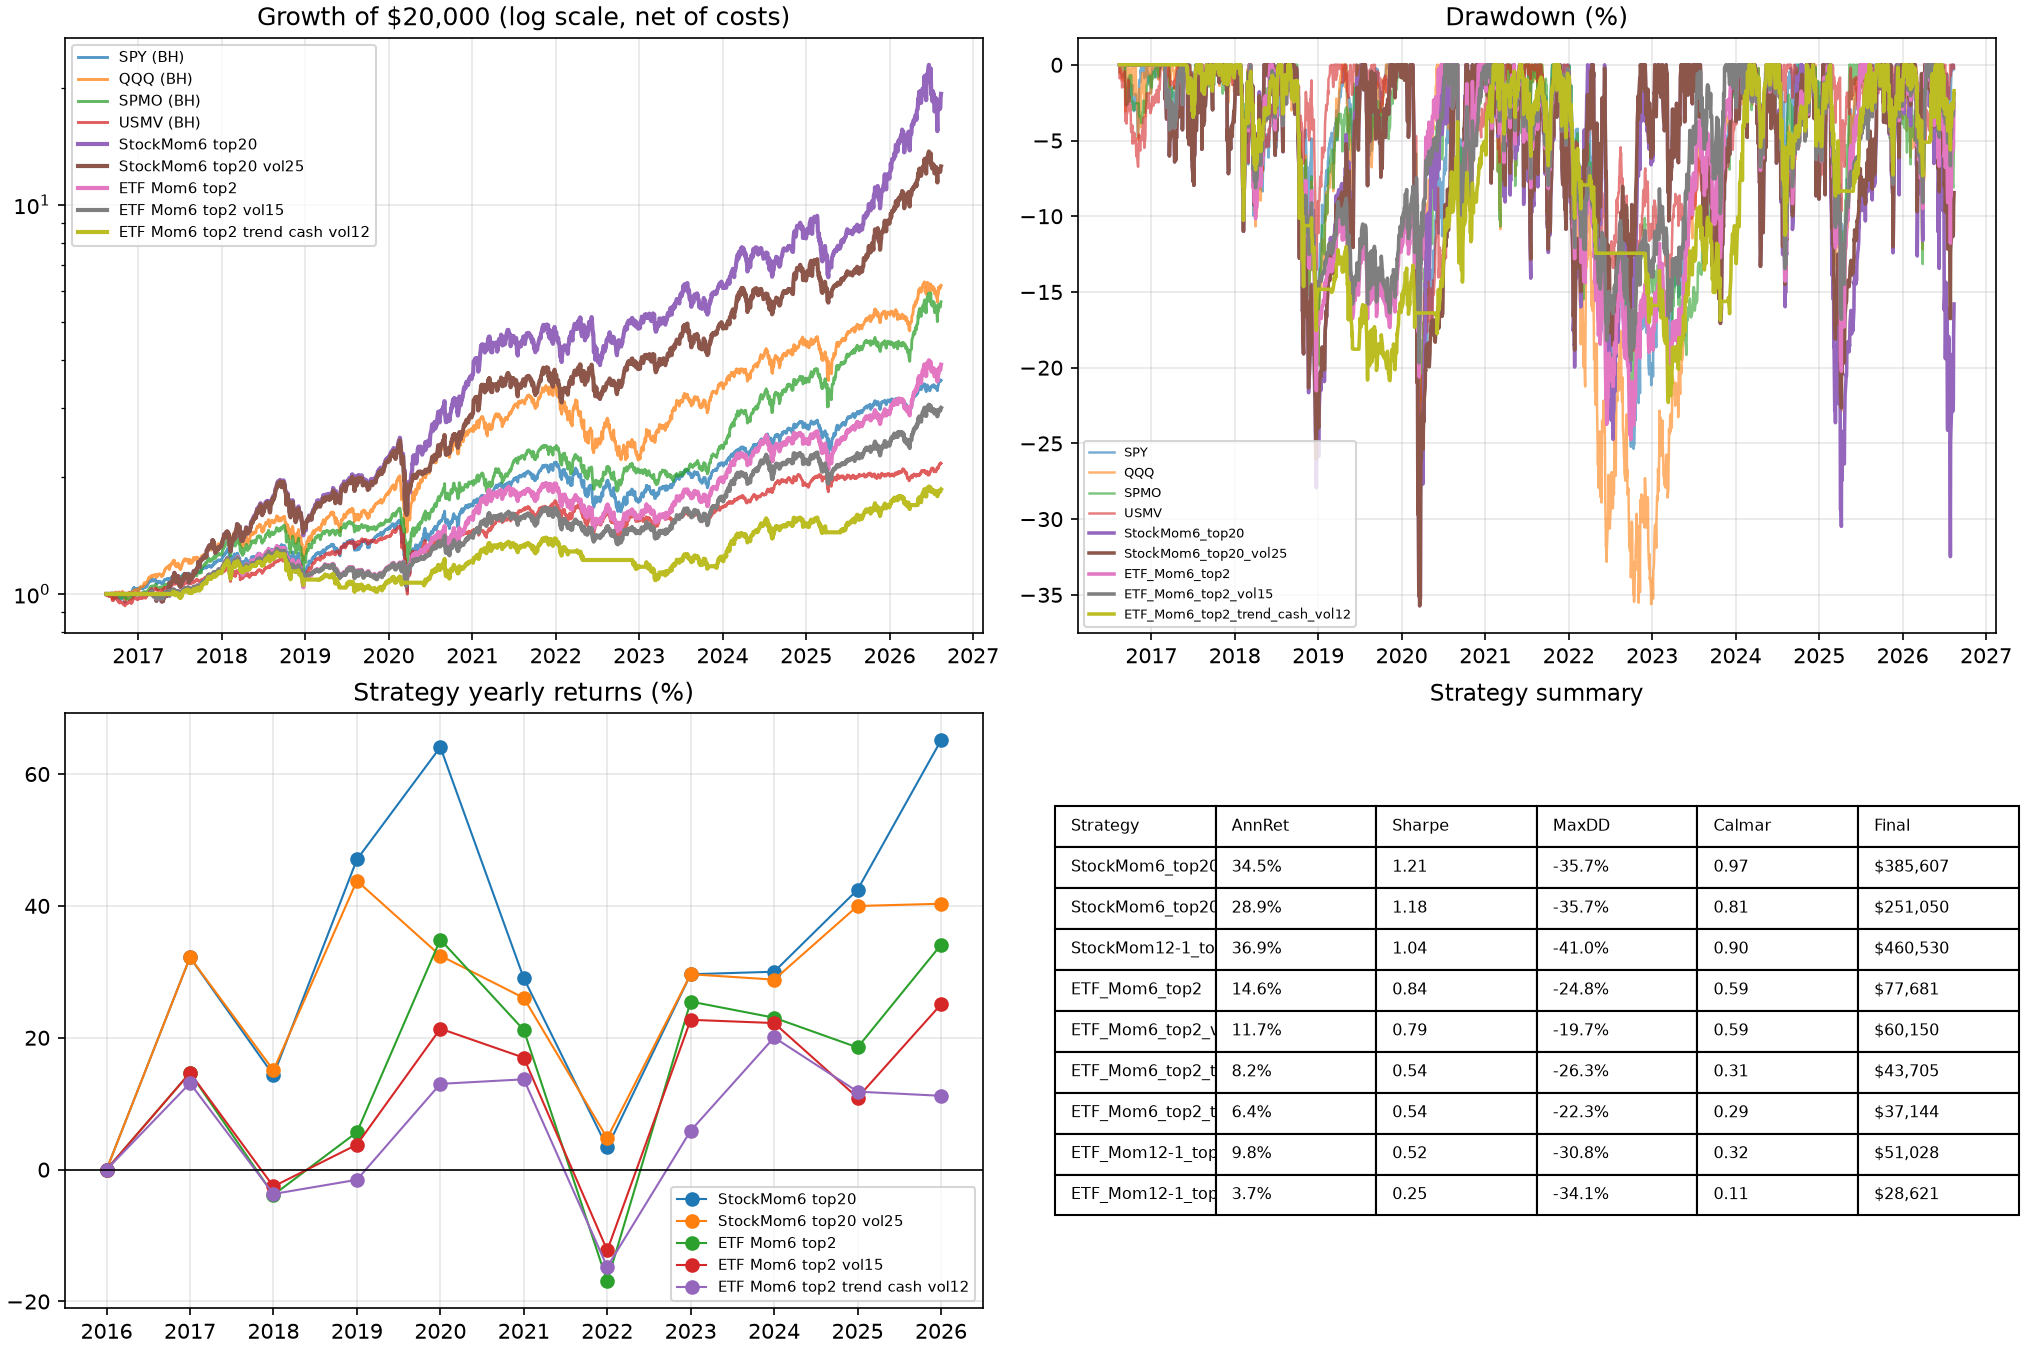
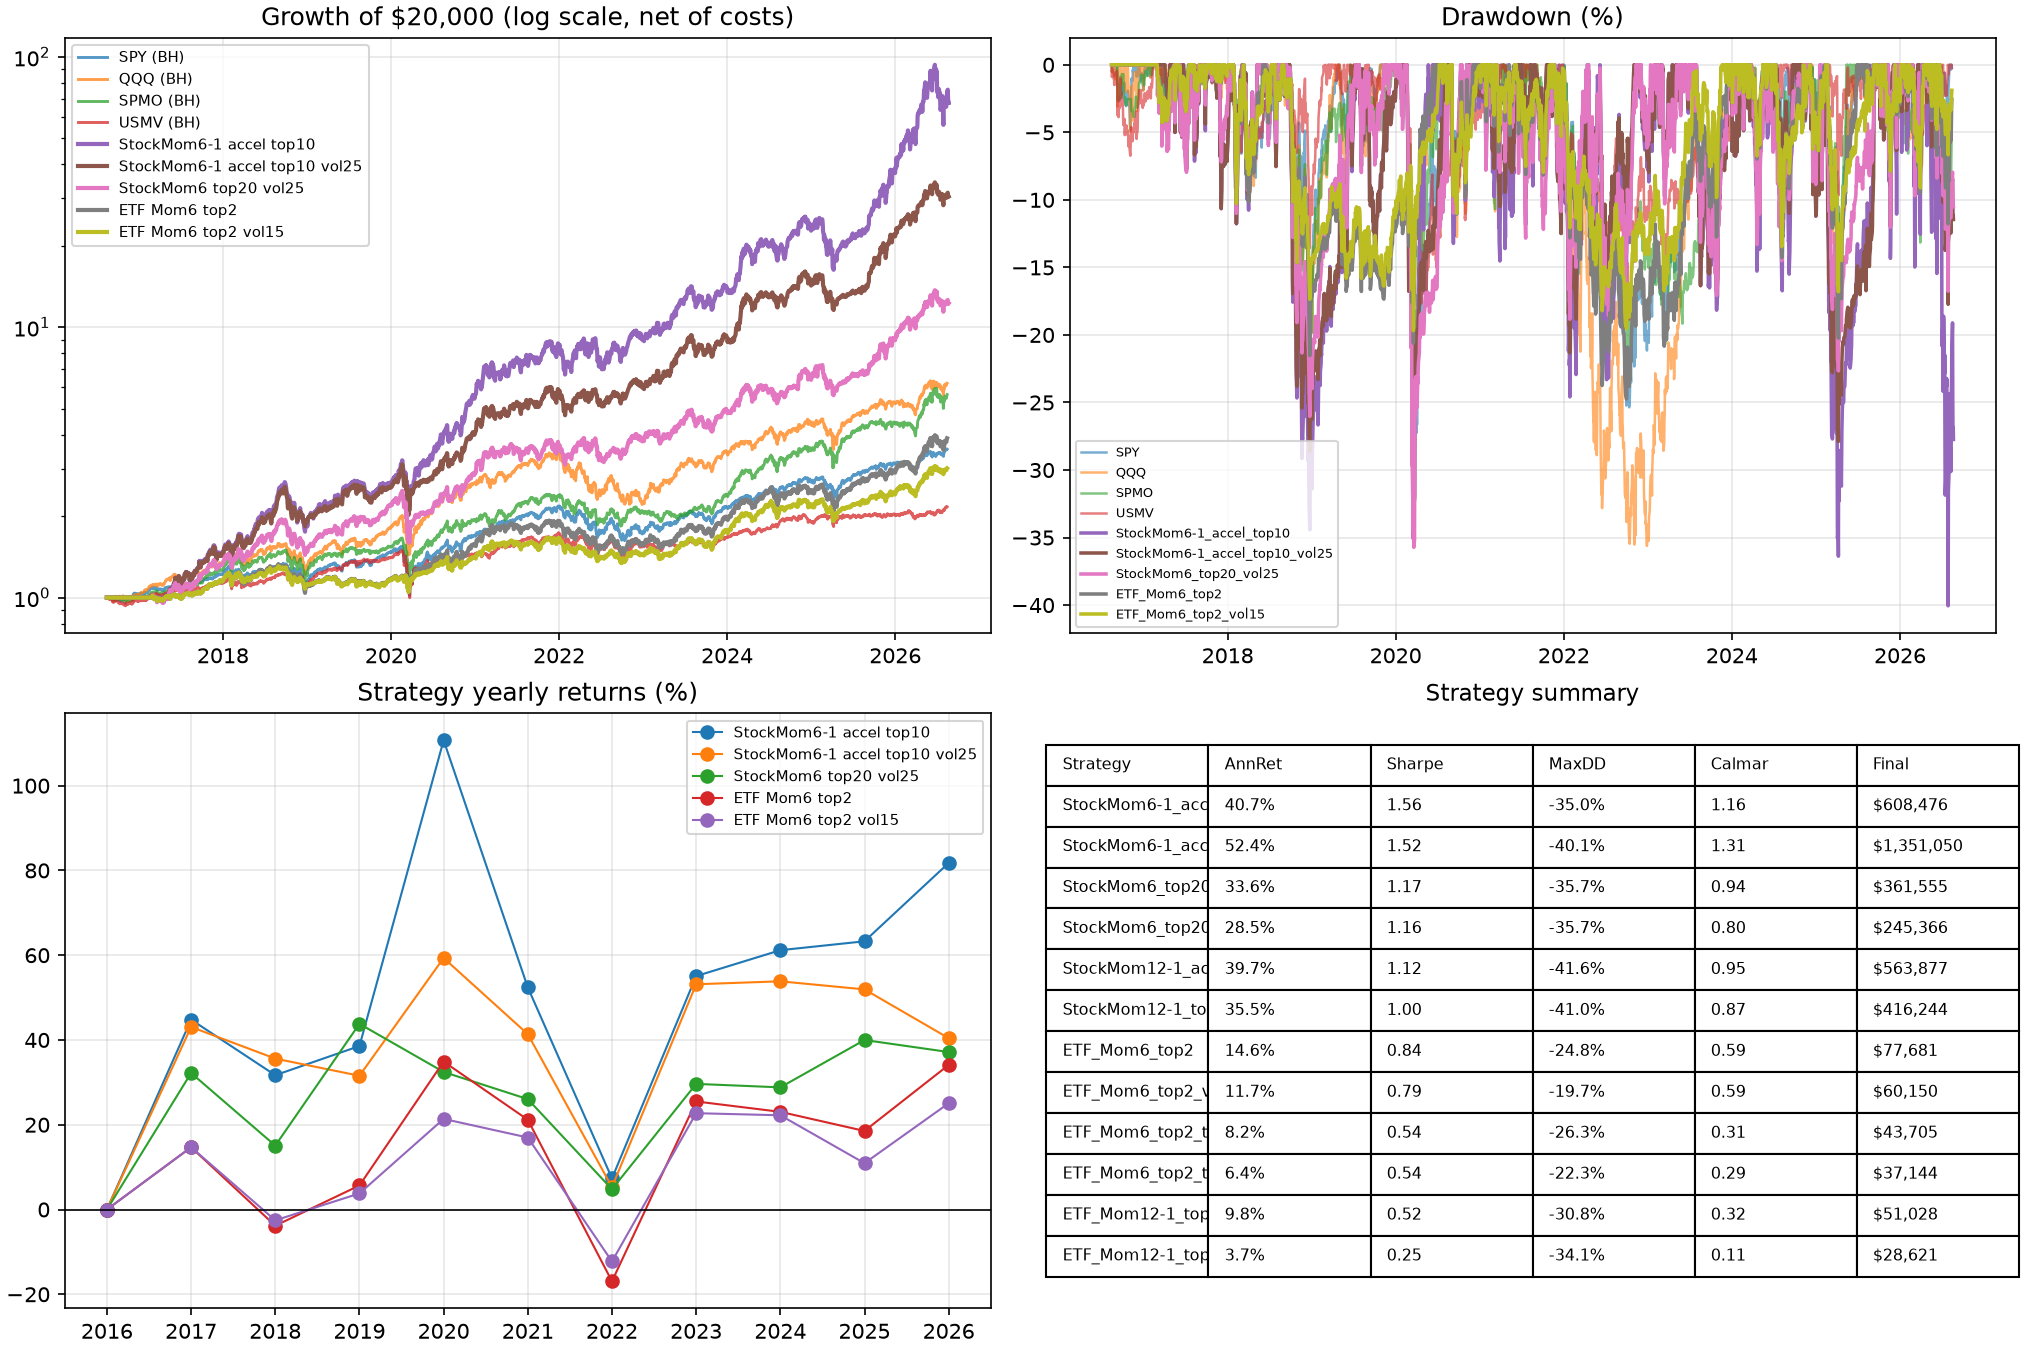
feat: 增加动量+近1月加速因子，月频/周频回测对比及影子策略

diff --git a/weekly_strategy.py b/weekly_strategy.py
@@ -22,6 +22,12 @@ def mom_score(d):  # 日线近似 6m-skip1
     a = px.iloc[d-21]; b = px.iloc[d-147]
     return (a/b - 1.0).replace([np.inf, -np.inf], np.nan)
 
+def acc_score(d):  # 6m-skip1 动量 + 近1月加速（各占50%）
+    m = mom_score(d)
+    if m is None: return None
+    a = px.iloc[d] / px.iloc[d-21] - 1.0
+    return (0.5*m + 0.5*a).replace([np.inf, -np.inf], np.nan)
+
 def weekly_last_days():
     s = pd.Series(idx, index=idx.to_period("W"))
     last = s.groupby(level=0).last()
@@ -48,13 +54,34 @@ print(f"周频动量策略 top{TOP}  信号={pd.Timestamp(sig_date).date()}  数
 print(hold[["rank","ticker","momentum","price","alloc_usd","shares"]].round(4).to_string(index=False))
 print("saved:", hold_csv)
 
+# ---------- 当前周频持仓（动量+近1月加速） ----------
+sig_a = max(wk_days)
+sca = acc_score(sig_a)
+ta_a = list(sca.sort_values(ascending=False).index[:TOP])
+rows_a = []
+for rk_a, t_a in enumerate(ta_a, 1):
+    price_a = float(px.iloc[-1][t_a]); alloc_a = CAPITAL / TOP
+    mom_v = float(mom_score(sig_a)[t_a])
+    acc_v = float(px.iloc[sig_a][t_a] / px.iloc[sig_a-21][t_a] - 1.0)
+    rows_a.append(dict(rank=rk_a, ticker=t_a, signal_date=str(pd.Timestamp(idx[sig_a]).date()),
+                       momentum=round(mom_v,4), accel=round(acc_v,4),
+                       score=round(mom_v*0.5 + acc_v*0.5,4), weight=1.0/TOP,
+                       price=price_a, alloc_usd=alloc_a, shares=alloc_a/price_a))
+hold_a = pd.DataFrame(rows_a)
+hold_a_csv = OUT / "current_holdings_6m_skip1_accel_top10_weekly.csv"
+hold_a.to_csv(hold_a_csv, index=False, encoding="utf-8-sig")
+print("="*80)
+print(f"周频动量+加速策略 top{TOP}  信号={pd.Timestamp(idx[sig_a]).date()}  数据截止={idx[-1].date()}")
+print(hold_a[["rank","ticker","momentum","accel","score","price","alloc_usd","shares"]].round(4).to_string(index=False))
+print("saved:", hold_a_csv)
+
 # ---------- 周频回测指标 ----------
-def backtest_weekly(top=TOP, cost_bps=10, vol_target=None):
+def backtest_weekly(score_func=mom_score, top=TOP, cost_bps=10, vol_target=None):
     rb = weekly_last_days()
     rb = [d for d in rb if d > 147 and d+1 < len(idx)]
     prev_w = pd.Series(0.0, index=cols); ret = pd.Series(0.0, index=idx); cost_line = pd.Series(0.0, index=idx)
     for k, rdi in enumerate(rb):
-        sc = mom_score(rdi)
+        sc = score_func(rdi)
         if sc is None or sc.dropna().empty: continue
         ta2 = list(sc.sort_values(ascending=False).index[:top]); w = 1.0/len(ta2)
         new_w = pd.Series(0.0, index=cols); new_w[ta2] = w
@@ -90,12 +117,16 @@ def metrics(ret):
 
 r = backtest_weekly(); f = metrics(r)
 r25 = backtest_weekly(vol_target=0.25); f25 = metrics(r25)
-oos = idx >= pd.Timestamp("2022-01-01"); o = metrics(r[oos]); o25 = metrics(r25[oos])
+ra = backtest_weekly(acc_score); fa = metrics(ra)
+ra25 = backtest_weekly(acc_score, vol_target=0.25); fa25 = metrics(ra25)
+oos = idx >= pd.Timestamp("2022-01-01"); o = metrics(r[oos]); o25 = metrics(r25[oos]); oa = metrics(ra[oos]); oa25 = metrics(ra25[oos])
 def line(name, mm, oo):
     return dict(策略=name, full_sh=round(mm["sharpe"],3), full_ann=round(mm["ann"],4), full_mdd=round(mm["mdd"],4), full_end=round(mm["final"],0),
                 oos_sh=round(oo["sharpe"],3), oos_ann=round(oo["ann"],4), oos_mdd=round(oo["mdd"],4), oos_end=round(oo["final"],0))
 mdf = pd.DataFrame([line("周频 6m-skip1 top10 (base)", f, o),
-                    line("周频 6m-skip1 top10 + vol25（推荐）", f25, o25)])
+                    line("周频 6m-skip1 top10 + vol25", f25, o25),
+                    line("周频 6m-skip1+近1月加速 top10", fa, oa),
+                    line("周频 6m-skip1+近1月加速 top10 + vol25", fa25, oa25)])
 mcsv = OUT / "weekly_backtest_metrics.csv"
 mdf.to_csv(mcsv, index=False, encoding="utf-8-sig")
 print("\n周频回测指标:")

diff --git a/explore_flexible.py b/explore_flexible.py
@@ -1,0 +1,78 @@
+# -*- coding: utf-8 -*-
+"""探索：月频动量策略的“更灵活”变体，对比能不能提高收益/夏普
+base(等权) / rank加权 / 前5重仓 / 动量+近期加速 / 动量门槛过滤(空仓一部分)
+"""
+import os
+from pathlib import Path
+import numpy as np, pandas as pd
+
+DATA = Path(os.environ.get("STOCK_DATA_DIR") or r"F:\even-codex\us-stock-data")
+OUT = Path(__file__).resolve().parent / "backtest_output"
+DAYS=252; START=20000.0; COST=10; TOP=10
+
+px = pd.read_csv(DATA/"prices.csv", index_col=0, parse_dates=True).sort_index().apply(pd.to_numeric, errors="coerce")
+px = px.loc[:, px.count() >= 2400]
+idx=px.index; cols=list(px.columns); idpos={d:i for i,d in enumerate(idx)}; dr=px.pct_change().fillna(0.0)
+mom6 = px.shift(21).div(px.shift(147)) - 1.0   # 6m-skip1 日近似
+acc  = px.div(px.shift(21)) - 1.0                # 近1月加速
+
+def month_last_days():
+    s = pd.Series(idx, index=idx.to_period("M"))
+    last = s.groupby(level=0).last()
+    return [int(idpos[d]) for d in last.tolist() if d in idpos]
+
+def pick_weight(variant, d):
+    if variant == "accel":
+        sc = (pd.DataFrame({"a": mom6.iloc[d], "b": acc.iloc[d]}).mean(axis=1))
+    else:
+        sc = mom6.iloc[d]
+    sc = sc.sort_values(ascending=False)
+    names = sc.index[:TOP].tolist()
+    if variant == "mom20":
+        names = sc.index[sc > 0.20].tolist()[:TOP]   # 动量不够就空仓
+    if variant == "rank_w":
+        w = np.arange(len(names),0,-1.0); w = w/w.sum()
+        return {t:vv for t,vv in zip(names,w)}
+    if variant == "topheavy":
+        wd = {}
+        for i,t in enumerate(names):
+            wd[t] = 0.18 if i < 5 else 0.02
+        return wd
+    return {t: 1.0/len(names) for t in names}
+
+def run(variant):
+    rb = [d for d in month_last_days() if d>147 and d+1<len(idx)]
+    prev_w = pd.Series(0.0, index=cols); ret = pd.Series(0.0, index=idx); cost_line = pd.Series(0.0, index=idx)
+    for k,rdi in enumerate(rb):
+        wd = pick_weight(variant, rdi)
+        new_w = pd.Series(0.0, index=cols)
+        if wd:
+            new_w = pd.Series({t:vv for t,vv in wd.items() if t in cols})
+        hold_start = rdi+1; seg_end = rb[k+1] if k+1<len(rb) else len(idx)-1
+        if seg_end <= hold_start: seg_end = hold_start+1
+        to = (new_w-prev_w).abs().sum()/2.0
+        cost_line.iloc[hold_start] += to*COST/10000.0
+        li = [cols.index(c) for c in new_w.index if new_w[c]!=0]
+        if li:
+            ret.iloc[hold_start:seg_end+1] += (dr.iloc[hold_start:seg_end+1,li]*new_w.values[new_w!=0]).sum(axis=1)
+        prev_w = new_w.copy()
+    return (ret-cost_line).clip(lower=-0.5)
+
+def metrics(r):
+    nav=(1+r).cumprod()*START; ann=(nav.iloc[-1]/START)**(DAYS/len(nav))-1
+    vol=r.std(ddof=1)*np.sqrt(DAYS); sh=ann/vol if vol>0 else np.nan
+    mdd=(nav/nav.cummax()-1).min()
+    return dict(ann=ann,vol=vol,sharpe=[round(float(sh),3) if isinstance(sh,float) else sh][0],mdd=float(mdd),final=float(nav.iloc[-1]))
+
+oos = idx >= pd.Timestamp("2022-01-01")
+names = dict(base="base: 等权top10", rank_w="rank_w: 按排名线性加权", topheavy="topheavy: 前5各18%/后5各2%",
+             accel="accel: 动量+近1月加速", mom20="mom20: 动量>0.2才持仓(常空仓)")
+rows=[]
+for v,label in names.items():
+    r=run(v); f=metrics(r); o=metrics(r[oos])
+    rows.append(dict(变体=label, full_sh=f["sharpe"], full_ann=round(f["ann"],4), full_mdd=round(f["mdd"],4), full_end=round(f["final"],0),
+                     oos_sh=o["sharpe"], oos_ann=round(o["ann"],4), oos_mdd=round(o["mdd"],4), oos_end=round(o["final"],0)))
+df=pd.DataFrame(rows).sort_values("full_sh", ascending=False)
+out=OUT/"flexible_variants_scan.csv"; df.to_csv(out,index=False,encoding="utf-8-sig")
+print(df.to_string(index=False))
+print("saved:", out)

diff --git a/accel_robustness.py b/accel_robustness.py
@@ -1,0 +1,50 @@
+# -*- coding: utf-8 -*-
+"""稳健性检查：动量+近期加速 的组合参数扫描"""
+import os
+from pathlib import Path
+import numpy as np, pandas as pd
+
+DATA = Path(os.environ.get("STOCK_DATA_DIR") or r"F:\even-codex\us-stock-data")
+DAYS=252; START=20000.0; COST=10; TOP=10
+px = pd.read_csv(DATA/"prices.csv", index_col=0, parse_dates=True).sort_index().apply(pd.to_numeric, errors="coerce")
+px = px.loc[:, px.count() >= 2400]
+idx=px.index; cols=list(px.columns); idpos={d:i for i,d in enumerate(idx)}; dr=px.pct_change().fillna(0.0)
+mom6 = px.shift(21).div(px.shift(147)) - 1.0
+
+def month_last_days():
+    s = pd.Series(idx, index=idx.to_period("M"))
+    last = s.groupby(level=0).last()
+    return [int(idpos[d]) for d in last.tolist() if d in idpos]
+
+def run(acc_lb, w_mom):
+    rb=[d for d in month_last_days() if d>147 and d+1<len(idx)]
+    acc = px.div(px.shift(acc_lb)) - 1.0
+    prev_w=pd.Series(0.0,index=cols); ret=pd.Series(0.0,index=idx); cost_line=pd.Series(0.0,index=idx)
+    for k,rdi in enumerate(rb):
+        sc = (w_mom*mom6.iloc[rdi] + (1-w_mom)*acc.iloc[rdi]).sort_values(ascending=False).head(TOP)
+        nw=pd.Series({t:1.0/len(sc) for t in sc.index}, index=sc.index)
+        new_w=pd.Series(0.0,index=cols); new_w[nw.index]=nw.values
+        hs=rdi+1; se=rb[k+1] if k+1<len(rb) else len(idx)-1
+        if se<=hs: se=hs+1
+        cost_line.iloc[hs] += (new_w-prev_w).abs().sum()/2.0*COST/10000.0
+        li=[cols.index(c) for c in new_w.index if new_w[c]!=0]
+        if li:
+            ret.iloc[hs:se+1] += (dr.iloc[hs:se+1,li]*new_w.values[new_w!=0]).sum(axis=1)
+        prev_w=new_w.copy()
+    return (ret-cost_line).clip(lower=-0.5)
+
+def metrics(r):
+    nav=(1+r).cumprod()*START; ann=(nav.iloc[-1]/START)**(DAYS/len(nav))-1
+    vol=r.std(ddof=1)*np.sqrt(DAYS); sh=ann/vol if vol>0 else np.nan
+    mdd=(nav/nav.cummax()-1).min()
+    return sh, ann, mdd, nav.iloc[-1]
+
+oos=idx>=pd.Timestamp("2022-01-01")
+rows=[]
+for lb in (10,21,42):
+    for wm in (0.5,0.6,0.7,0.8,0.9):
+        r=run(lb,wm); fs,fa,fm,fe=metrics(r); os,oa,om,oe=metrics(r[oos])
+        rows.append(dict(acc_lookback=lb,w_mom=wm,full_sh=round(fs,3),full_ann=round(fa,4),full_mdd=round(fm,4),full_end=round(fe,0),oos_sh=round(os,3),oos_ann=round(oa,4),oos_mdd=round(om,4),oos_end=round(oe,0)))
+df=pd.DataFrame(rows).sort_values("full_sh",ascending=False)
+print(df.to_string(index=False))
+df.to_csv(Path(r"F:\even-codex\lianghua2\backtest_output\accel_robustness_scan.csv"), index=False, encoding="utf-8-sig")

diff --git a/backtest_momentum_v2.py b/backtest_momentum_v2.py
@@ -31,6 +31,13 @@ def momentum_score(px, period, skip):
     ml = monthly_last(px)
     return ml.shift(skip) / ml.shift(skip + period) - 1.0
 
+def momentum_accel_score(px, period, skip, accel_months=1, w_mom=0.5):
+    """复合打分 = w_mom*动量 + (1-w_mom)*近1月加速"""
+    ml = monthly_last(px)
+    m = ml.shift(skip) / ml.shift(skip + period) - 1.0
+    a = ml / ml.shift(accel_months) - 1.0
+    return w_mom * m + (1.0 - w_mom) * a
+
 def sma10_filter(px, month_last):
     ma = month_last.rolling(10, min_periods=10).mean()
     return (month_last >= ma).fillna(False)
@@ -155,11 +162,16 @@ spy_m = monthly_last(etf_px[['SPY']])['SPY']
 spy10 = sma10_filter(etf_px['SPY'], spy_m)
 stk6  = momentum_score(stock_px, 6, 0)
 stk12 = momentum_score(stock_px, 12, 1)
+stk6a  = momentum_accel_score(stock_px, 6, 1, accel_months=1, w_mom=0.5)
+stk12a = momentum_accel_score(stock_px, 12, 1, accel_months=1, w_mom=0.5)
 
 S = {}
 S['StockMom6_top20']             = run(stock_px, stk6, 20, cost_bps=10)
 S['StockMom6_top20_vol25']       = run(stock_px, stk6, 20, cost_bps=10, vol_target=0.25)
 S['StockMom12-1_top10']          = run(stock_px, stk12, 10, cost_bps=10)
+S['StockMom6-1_accel_top10']     = run(stock_px, stk6a, 10, cost_bps=10)
+S['StockMom6-1_accel_top10_vol25'] = run(stock_px, stk6a, 10, cost_bps=10, vol_target=0.25)
+S['StockMom12-1_accel_top10']    = run(stock_px, stk12a, 10, cost_bps=10)
 S['ETF_Mom6_top2']               = run(etf_px, etf6, 2, cost_bps=5)
 S['ETF_Mom6_top2_vol15']         = run(etf_px, etf6, 2, cost_bps=5, vol_target=0.15)
 S['ETF_Mom6_top2_trend_cash']    = run(etf_px, etf6, 2, market_filter=spy10, cash_asset=None, cost_bps=5)
@@ -189,7 +201,7 @@ df.to_csv(OUT_DIR / "results_table.csv", index=False, encoding="utf-8-sig")
 print(df.to_string(index=False))
 
 # ---- charts
-sel_strats = ['StockMom6_top20','StockMom6_top20_vol25','ETF_Mom6_top2','ETF_Mom6_top2_vol15','ETF_Mom6_top2_trend_cash_vol12']
+sel_strats = ['StockMom6-1_accel_top10','StockMom6-1_accel_top10_vol25','StockMom6_top20_vol25','ETF_Mom6_top2','ETF_Mom6_top2_vol15']
 sel_bh = ['SPY','QQQ','SPMO','USMV']
 fig, axes = plt.subplots(2, 2, figsize=(13.5, 9), constrained_layout=True)
 ax = axes[0,0]

diff --git a/shadow_compare.py b/shadow_compare.py
@@ -21,6 +21,22 @@ def weekly_scores(px, p=6, k=1):
     s = pd.Series(np.arange(len(px)), index=px.index)
     last = s.groupby(px.index.to_period("W")).last().values.astype(int)
     return mom.iloc[last]
+
+def accel_scores(px, p=6, k=1, am=1, wm=0.5):
+    """月频复合：wm*动量 + (1-wm)*近 am 个月收益"""
+    m = mom(px, p, k)
+    a = ml(px).pct_change(am)
+    return wm*m + (1-wm)*a
+
+def weekly_accel_scores(px, p=6, k=1, am=1, wm=0.5):
+    """周频复合：wm*动量 + (1-wm)*近 am 个月日线收益"""
+    span_p=p*21; span_k=k*21; span_a=am*21
+    momw = px.div(px.shift(span_p+span_k)).add(-1.0)
+    accw = px.div(px.shift(span_a)).add(-1.0)
+    sc = wm*momw + (1-wm)*accw
+    s = pd.Series(np.arange(len(px)), index=px.index)
+    last = s.groupby(px.index.to_period("W")).last().values.astype(int)
+    return sc.iloc[last]
 def run_fast(px,scores,top,cost_bps,vol_m=None,vol_target=None):
     cols=list(px.columns); M=len(cols); dr=px.pct_change().fillna(0.0)
     me=np.array(pd.DatetimeIndex(scores.index)); day=np.array(px.index)
@@ -79,6 +95,10 @@ configs=[
     ("3m skip1 top10", mom(stk,3,1), 10, 10, None),
     ("9m top10", mom(stk,9,0), 10, 10, None),
     ("6m skip1 top10 + vol25", mom(stk,6,1), 10, 10, 0.25),
+    ("6m accel top10 月频", accel_scores(stk,6,1), 10, 10, None),
+    ("6m accel top10 月频+vol25", accel_scores(stk,6,1), 10, 10, 0.25),
+    ("6m accel top10 周频", weekly_accel_scores(stk,6,1), 10, 10, None),
+    ("6m accel top10 周频+vol25", weekly_accel_scores(stk,6,1), 10, 10, 0.25),
 ]
 rows=[("SPY (reference)",)*3+("(ref)",)*2]
 for name,sc,top,cost,vt in configs:
